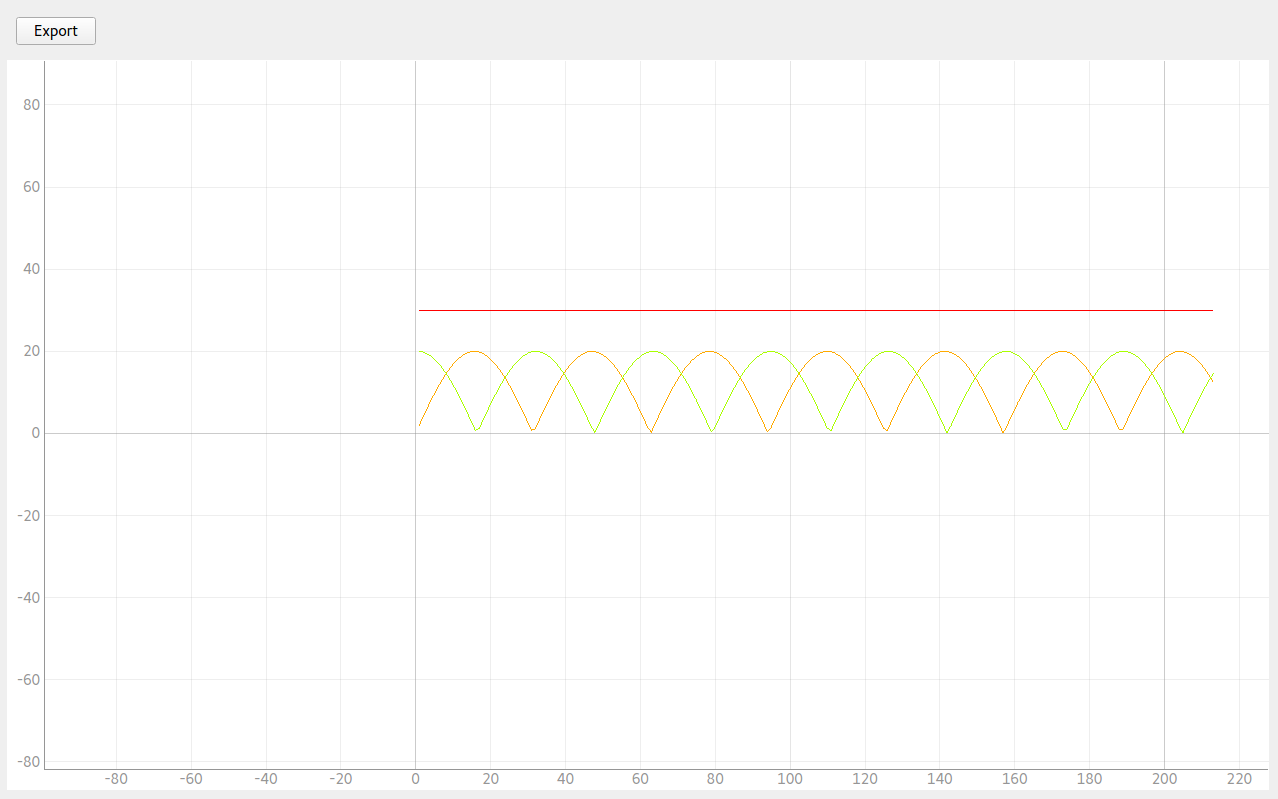
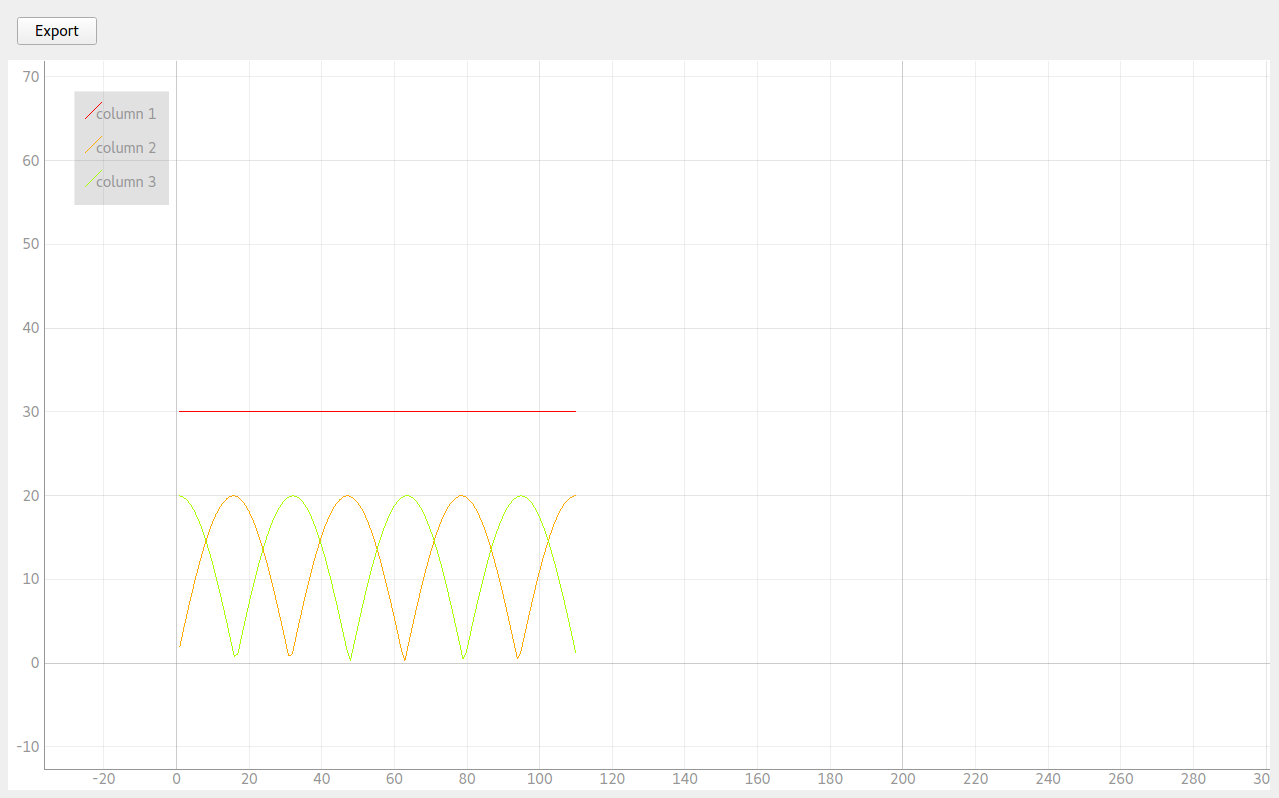
добавил легенду

diff --git a/serial_plotter.py b/serial_plotter.py
@@ -101,8 +101,9 @@ class MainWindow(QMainWindow):
 
     def init_plot(self, columns_count):
         """ Инициализируем матрицу данных и объекты линий по количеству колонок в данных """
+        self.data_pw.addLegend()
         self.data = [[] for _ in range(columns_count)]
-        self.curves = [self.data_pw.plot(pen=pg.intColor(i)) for i in range(columns_count - 1)]
+        self.curves = [self.data_pw.plot(pen=pg.intColor(i), name=f'column {i+1}') for i in range(columns_count - 1)]
 
     def setup_ui(self):
         """ Инициализация интерфейса """
